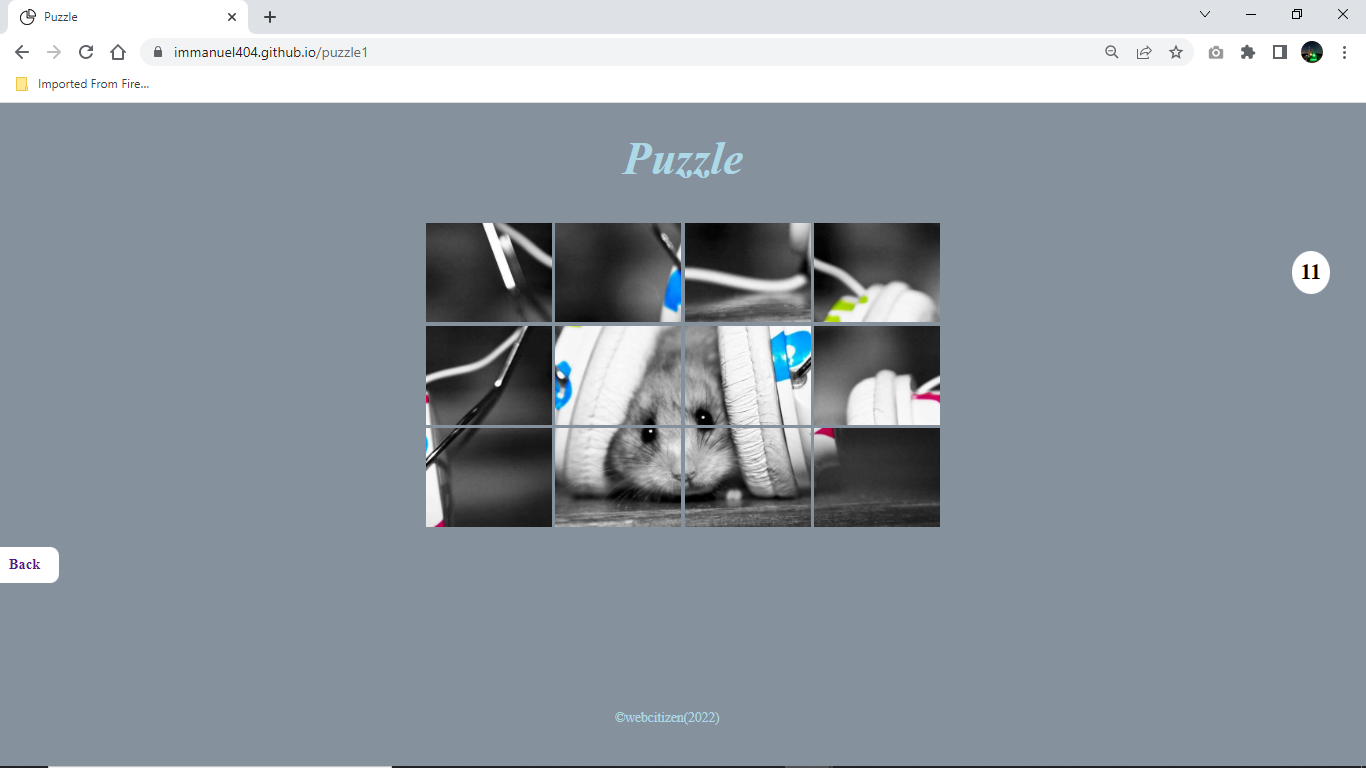
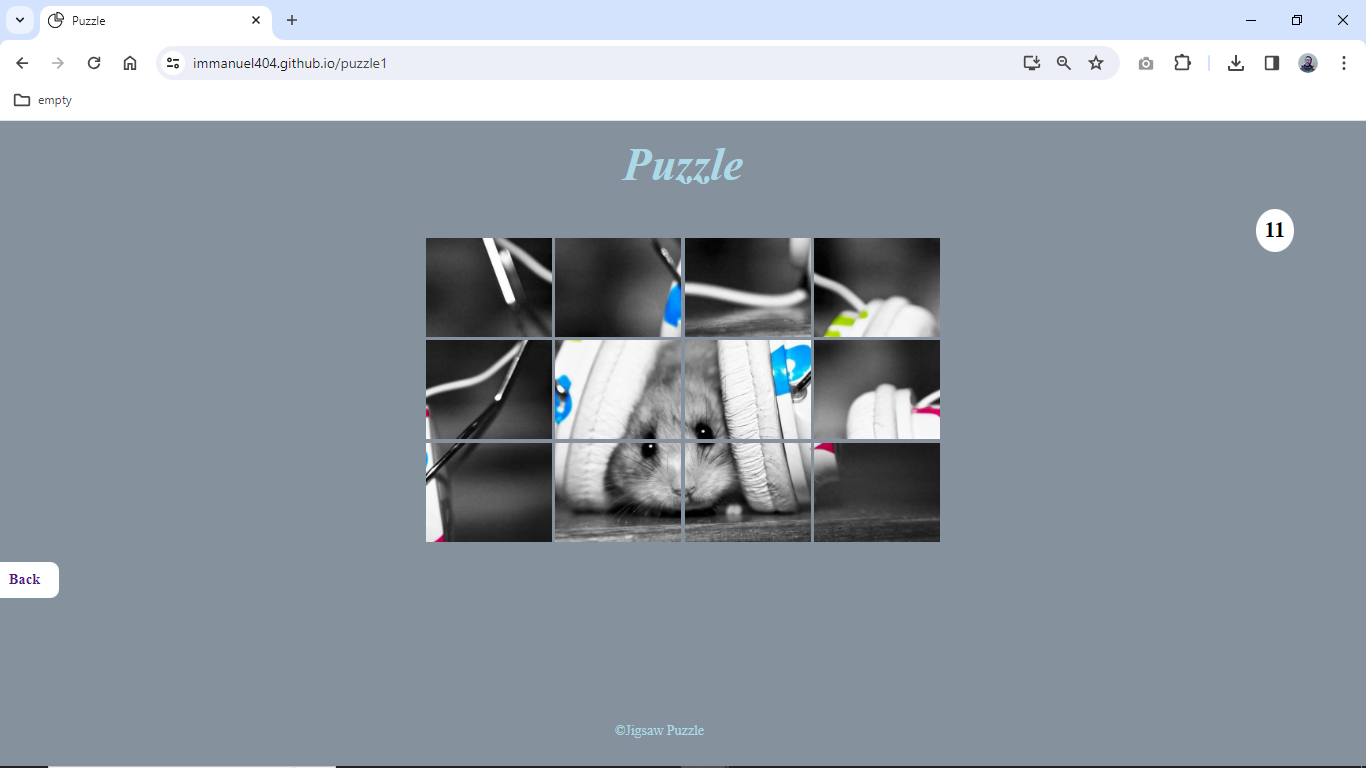
minor updates
minor updates - ui

diff --git a/static/css/main.768d6f0c.css b/static/css/main.768d6f0c.css
@@ -1,0 +1,2 @@
+*{box-sizing:border-box;margin:0;padding:0;text-decoration:none}body{background-color:#85929e;height:100%;overflow-x:hidden;width:100%}#title{background:#85929e;border-radius:8px;box-shadow:8px 8px 15px grey,-1px -1px 15px #9fbcba;height:60px;margin:50px auto 60px;width:200px}h1{color:#add8e6;font-size:50px;font-style:italic;margin:20px;text-align:center}.container{align-items:center;display:flex;flex-direction:row;justify-content:center;margin-top:50px}.container>a>div{background-size:cover;border-radius:15px;box-shadow:8px 8px 15px #000,-8px -8px 15px gray;-webkit-filter:blur(0);filter:blur(0);height:200px;margin:50px 20px;width:300px}.container>a>div:hover{-webkit-filter:blur(1px);filter:blur(1px)}.container .image1{background-image:url(/web_Game3-Jigsaw/static/media/img1.d2ecb4f960de6d1ac6d5.jpg)}.container .image2{background-image:url(/web_Game3-Jigsaw/static/media/img2.e3974b86f4733d48cc2c.jpg)}.container .image3{background-image:url(/web_Game3-Jigsaw/static/media/img3.ded2e74a82fe658281aa.jpg)}.container a p{color:#fff;overflow:hidden;padding:15px;text-align:left}.footer{bottom:30px;font-size:15.5px;left:45%;position:absolute}.footer,.footer a{color:#add8e6}.Puzzle1,.Puzzle2,.Puzzle3{overflow-x:hidden}#mobileCompatibility{display:none}#clock{background-color:#fff;border-radius:50%;padding:10px}.trophy{background-image:url(/web_Game3-Jigsaw/static/media/trophy.cb5de88a2b4401bc2aeb.png);background-size:cover;height:120px;margin:20px;position:absolute;right:-50%;width:120px}.trophy.active{right:5%;transition:.8s}h2{position:absolute;right:80px;text-align:center;top:0}.box{align-items:center;display:flex;justify-content:center;margin:50px auto 0;width:60%}.list{display:grid;grid-template-columns:repeat(4,1fr);transition:.8s}.list img{height:110px;margin:2px;width:140px}.goBack{background-color:#fff;border-bottom-right-radius:10px;border-top-right-radius:10px;height:40px;margin-top:20px;padding:10px;width:65px}.goBack a{font-weight:700;text-align:left;text-decoration:none}.footer2{bottom:30px;font-size:15.5px;left:45%;position:absolute}.footer2,.footer2 a{color:#add8e6}@media (max-width:915px){#title{border-radius:8px;height:45px;width:145px}h1{color:#add8e6;font-size:35px;font-style:italic;text-align:center}.container{align-items:center;display:flex;flex-direction:column;justify-content:center}.container>a>div{background-size:cover;box-shadow:8px 8px 15px #000,-8px -8px 15px gray;-webkit-filter:blur(0);filter:blur(0);height:180px;margin:20px 10px;width:240px}.footer{align-items:center;bottom:auto;font-size:10px;left:auto;margin-top:150px;position:relative;text-align:center}.footer,.footer a{color:#add8e6}#mobileCompatibility{color:#add8e6;display:block;font-size:12px;text-align:center}#clock{display:none}h2{position:absolute;right:10px;text-align:center;top:5px}.box{align-items:center;display:flex;justify-content:center;margin:50px 0 0;width:100%}.list{display:grid;grid-template-columns:repeat(4,1fr)}.list img{height:45px;margin:2px;width:60px}.goBack{background-color:#fff;border-bottom-right-radius:10px;border-top-right-radius:10px;height:30px;margin-top:20px;padding:5px;width:40px}.goBack a{font-size:10px;font-weight:700;text-align:left;text-decoration:none}.footer2{align-items:center;bottom:20px;font-size:10px;left:45%;margin-top:150px;position:absolute;text-align:center}.footer2,.footer2 a{color:#add8e6}}
+/*# sourceMappingURL=main.768d6f0c.css.map*/

diff --git a/index.html b/index.html
@@ -1,1 +1,1 @@
-<!doctype html><html lang="en"><head><meta charset="utf-8"/><link rel="icon" href="/web_Game3-Jigsaw/pie.png"/><link rel="stylesheet" href="https://cdnjs.cloudflare.com/ajax/libs/animate.css/3.5.2/animate.min.css"><meta name="viewport" content="width=device-width,initial-scale=1"/><meta name="theme-color" content="#000000"/><meta name="description" content="Puzzle game with react.js"/><link rel="apple-touch-icon" href="/web_Game3-Jigsaw/pie.png"/><link rel="manifest" href="/web_Game3-Jigsaw/manifest.json"/><title>Puzzle</title><script defer="defer" src="/web_Game3-Jigsaw/static/js/main.da8211d2.js"></script><link href="/web_Game3-Jigsaw/static/css/main.20b7a2b1.css" rel="stylesheet"></head><body><noscript>You need to enable JavaScript to run this app.</noscript><div id="root"></div></body></html>
+<!doctype html><html lang="en"><head><meta charset="utf-8"/><link rel="icon" href="/web_Game3-Jigsaw/pie.png"/><link rel="stylesheet" href="https://cdnjs.cloudflare.com/ajax/libs/animate.css/3.5.2/animate.min.css"><meta name="viewport" content="width=device-width,initial-scale=1"/><meta name="theme-color" content="#000000"/><meta name="description" content="Puzzle game with react.js"/><link rel="apple-touch-icon" href="/web_Game3-Jigsaw/pie.png"/><link rel="manifest" href="/web_Game3-Jigsaw/manifest.json"/><title>Puzzle</title><script defer="defer" src="/web_Game3-Jigsaw/static/js/main.da8211d2.js"></script><link href="/web_Game3-Jigsaw/static/css/main.768d6f0c.css" rel="stylesheet"></head><body><noscript>You need to enable JavaScript to run this app.</noscript><div id="root"></div></body></html>
